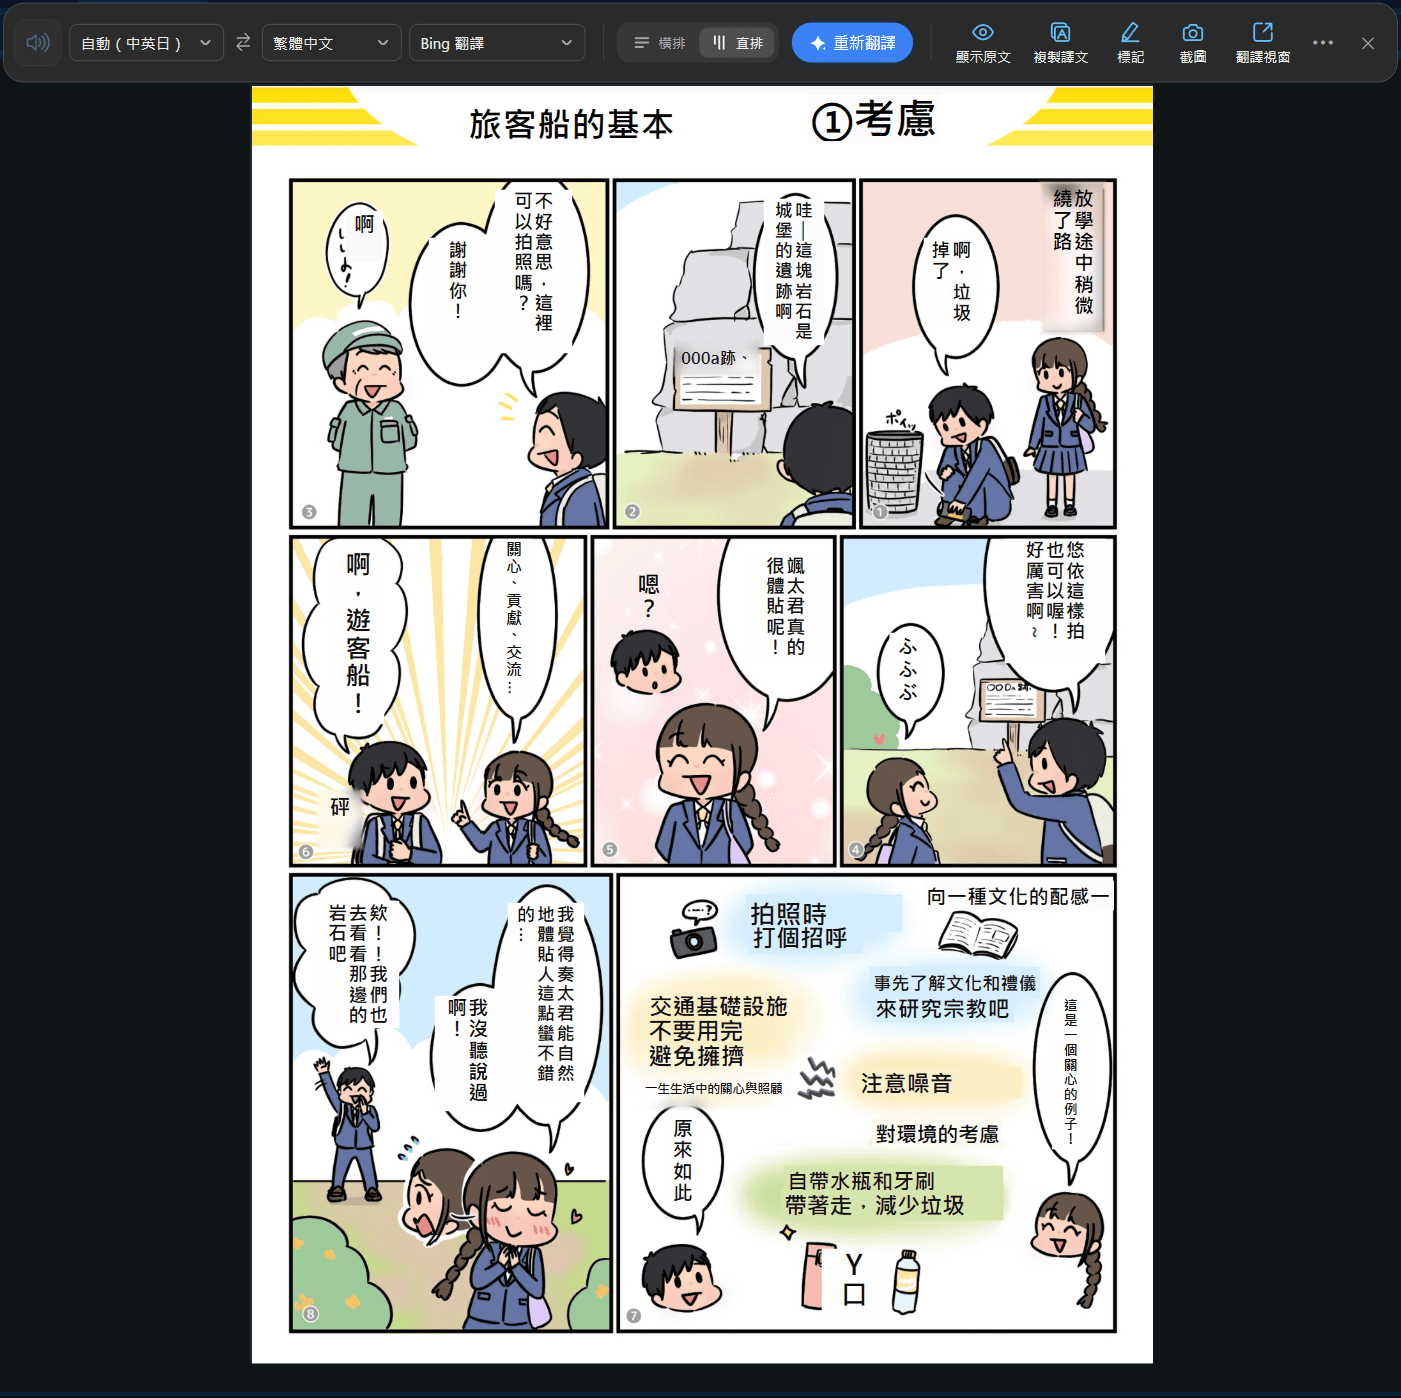
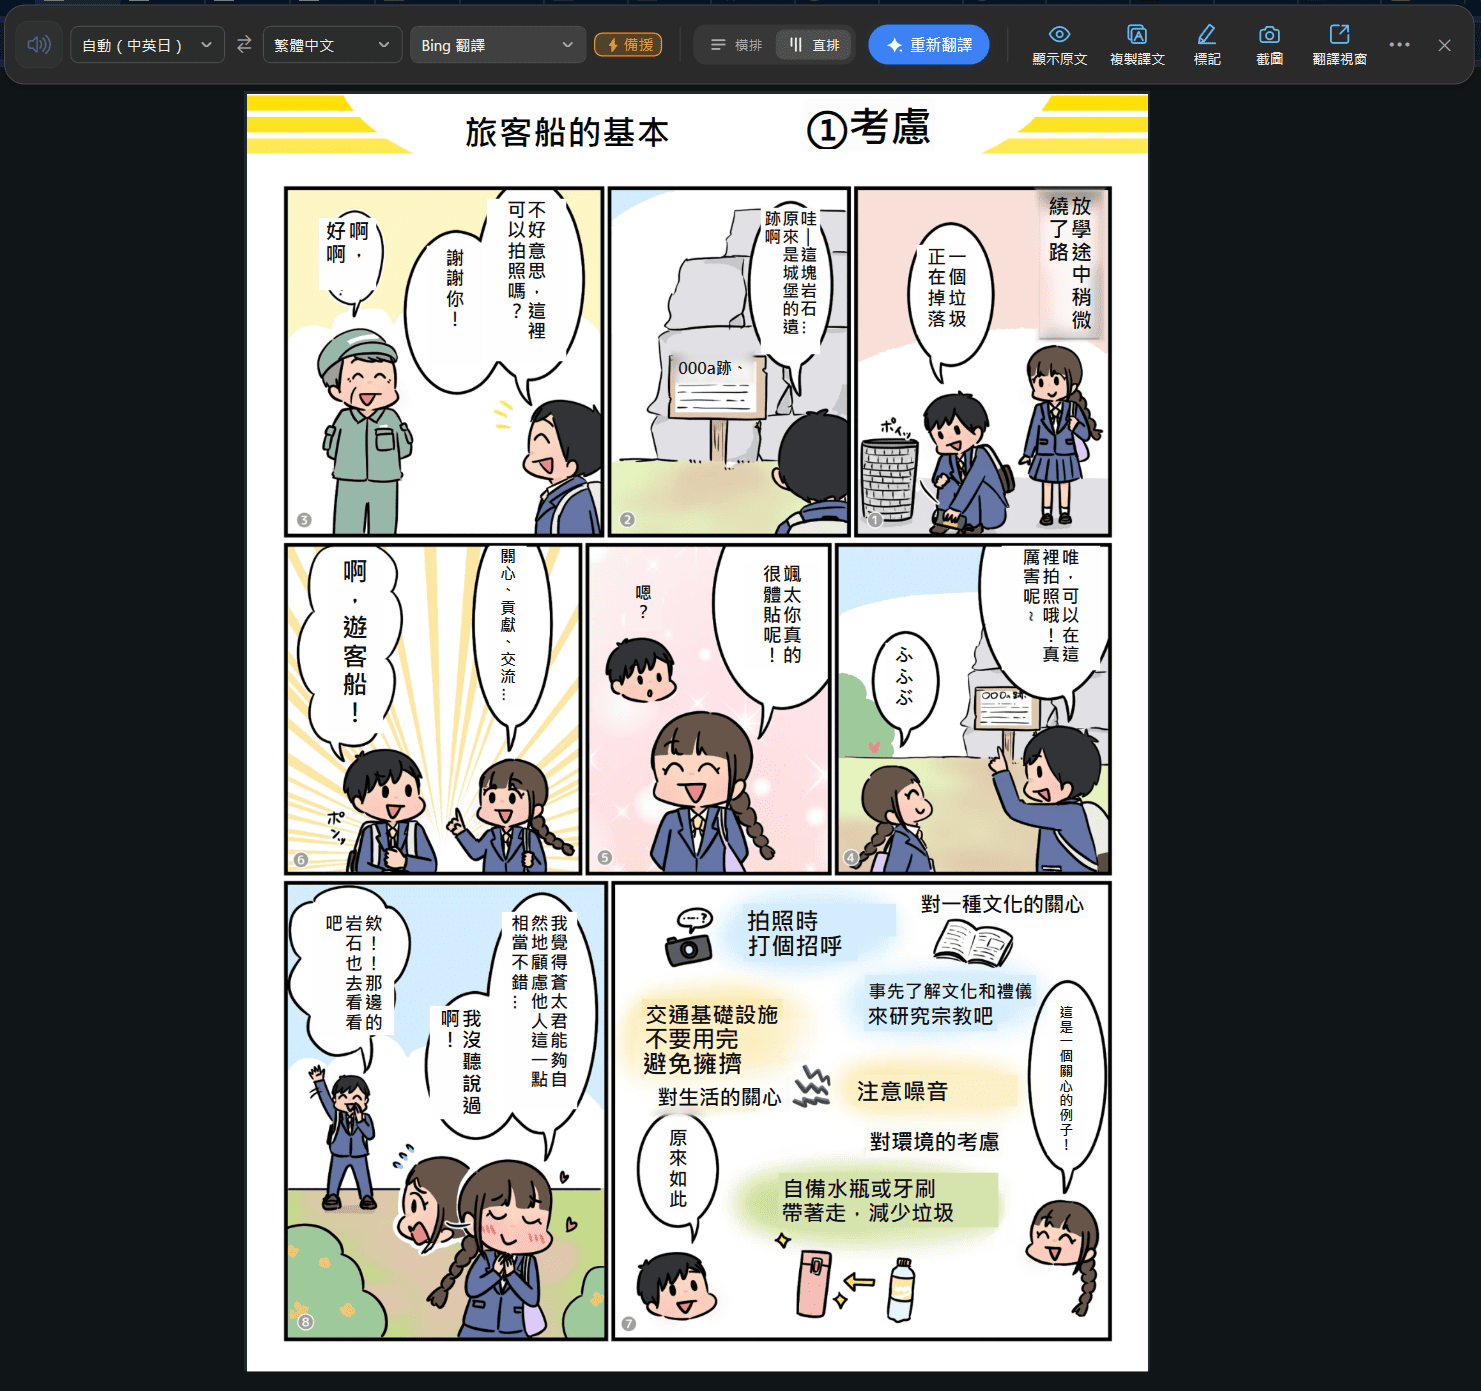
chore: 重新截取截圖翻譯的漫畫比對圖

diff --git a/docs/en/index.html b/docs/en/index.html
@@ -219,9 +219,9 @@
       <div class="split__media reveal">
         <figure class="shot">
           <div class="compare compare--comic" data-compare>
-            <img class="compare__img" src="../images/截圖翻譯1-後.png" width="1401" height="1398" alt="A comic page after translation" data-i18n-attr="alt|shot.comicpage.after" loading="lazy" decoding="async" />
+            <img class="compare__img" src="../images/截圖翻譯1-後.png" width="1481" height="1391" alt="A comic page after translation" data-i18n-attr="alt|shot.comicpage.after" loading="lazy" decoding="async" />
             <div class="compare__clip">
-              <img class="compare__img" src="../images/截圖翻譯1-前.png" width="1401" height="1398" alt="The same comic page in Japanese" data-i18n-attr="alt|shot.comicpage.before" loading="lazy" decoding="async" />
+              <img class="compare__img" src="../images/截圖翻譯1-前.png" width="1481" height="1391" alt="The same comic page in Japanese" data-i18n-attr="alt|shot.comicpage.before" loading="lazy" decoding="async" />
             </div>
             <span class="compare__tag compare__tag--before" data-i18n="compare.before">Original</span>
             <span class="compare__tag compare__tag--after" data-i18n="compare.after">Translated</span>

diff --git a/docs/ja/index.html b/docs/ja/index.html
@@ -219,9 +219,9 @@
       <div class="split__media reveal">
         <figure class="shot">
           <div class="compare compare--comic" data-compare>
-            <img class="compare__img" src="../images/截圖翻譯1-後.png" width="1401" height="1398" alt="マンガを翻訳した画面" data-i18n-attr="alt|shot.comicpage.after" loading="lazy" decoding="async" />
+            <img class="compare__img" src="../images/截圖翻譯1-後.png" width="1481" height="1391" alt="マンガを翻訳した画面" data-i18n-attr="alt|shot.comicpage.after" loading="lazy" decoding="async" />
             <div class="compare__clip">
-              <img class="compare__img" src="../images/截圖翻譯1-前.png" width="1401" height="1398" alt="翻訳前の日本語のマンガ" data-i18n-attr="alt|shot.comicpage.before" loading="lazy" decoding="async" />
+              <img class="compare__img" src="../images/截圖翻譯1-前.png" width="1481" height="1391" alt="翻訳前の日本語のマンガ" data-i18n-attr="alt|shot.comicpage.before" loading="lazy" decoding="async" />
             </div>
             <span class="compare__tag compare__tag--before" data-i18n="compare.before">原文</span>
             <span class="compare__tag compare__tag--after" data-i18n="compare.after">訳文</span>

diff --git a/docs/ko/index.html b/docs/ko/index.html
@@ -219,9 +219,9 @@
       <div class="split__media reveal">
         <figure class="shot">
           <div class="compare compare--comic" data-compare>
-            <img class="compare__img" src="../images/截圖翻譯1-後.png" width="1401" height="1398" alt="만화를 번역한 화면" data-i18n-attr="alt|shot.comicpage.after" loading="lazy" decoding="async" />
+            <img class="compare__img" src="../images/截圖翻譯1-後.png" width="1481" height="1391" alt="만화를 번역한 화면" data-i18n-attr="alt|shot.comicpage.after" loading="lazy" decoding="async" />
             <div class="compare__clip">
-              <img class="compare__img" src="../images/截圖翻譯1-前.png" width="1401" height="1398" alt="번역 전 일본어 만화" data-i18n-attr="alt|shot.comicpage.before" loading="lazy" decoding="async" />
+              <img class="compare__img" src="../images/截圖翻譯1-前.png" width="1481" height="1391" alt="번역 전 일본어 만화" data-i18n-attr="alt|shot.comicpage.before" loading="lazy" decoding="async" />
             </div>
             <span class="compare__tag compare__tag--before" data-i18n="compare.before">원문</span>
             <span class="compare__tag compare__tag--after" data-i18n="compare.after">번역문</span>

diff --git a/docs/zh-Hans/index.html b/docs/zh-Hans/index.html
@@ -219,9 +219,9 @@
       <div class="split__media reveal">
         <figure class="shot">
           <div class="compare compare--comic" data-compare>
-            <img class="compare__img" src="../images/截圖翻譯1-後.png" width="1401" height="1398" alt="漫画翻译后的画面" data-i18n-attr="alt|shot.comicpage.after" loading="lazy" decoding="async" />
+            <img class="compare__img" src="../images/截圖翻譯1-後.png" width="1481" height="1391" alt="漫画翻译后的画面" data-i18n-attr="alt|shot.comicpage.after" loading="lazy" decoding="async" />
             <div class="compare__clip">
-              <img class="compare__img" src="../images/截圖翻譯1-前.png" width="1401" height="1398" alt="翻译前的日文漫画" data-i18n-attr="alt|shot.comicpage.before" loading="lazy" decoding="async" />
+              <img class="compare__img" src="../images/截圖翻譯1-前.png" width="1481" height="1391" alt="翻译前的日文漫画" data-i18n-attr="alt|shot.comicpage.before" loading="lazy" decoding="async" />
             </div>
             <span class="compare__tag compare__tag--before" data-i18n="compare.before">原文</span>
             <span class="compare__tag compare__tag--after" data-i18n="compare.after">译文</span>

diff --git a/docs/zh-TW/index.html b/docs/zh-TW/index.html
@@ -219,9 +219,9 @@
       <div class="split__media reveal">
         <figure class="shot">
           <div class="compare compare--comic" data-compare>
-            <img class="compare__img" src="../images/截圖翻譯1-後.png" width="1401" height="1398" alt="漫畫翻譯後的畫面" data-i18n-attr="alt|shot.comicpage.after" loading="lazy" decoding="async" />
+            <img class="compare__img" src="../images/截圖翻譯1-後.png" width="1481" height="1391" alt="漫畫翻譯後的畫面" data-i18n-attr="alt|shot.comicpage.after" loading="lazy" decoding="async" />
             <div class="compare__clip">
-              <img class="compare__img" src="../images/截圖翻譯1-前.png" width="1401" height="1398" alt="翻譯前的日文漫畫" data-i18n-attr="alt|shot.comicpage.before" loading="lazy" decoding="async" />
+              <img class="compare__img" src="../images/截圖翻譯1-前.png" width="1481" height="1391" alt="翻譯前的日文漫畫" data-i18n-attr="alt|shot.comicpage.before" loading="lazy" decoding="async" />
             </div>
             <span class="compare__tag compare__tag--before" data-i18n="compare.before">原文</span>
             <span class="compare__tag compare__tag--after" data-i18n="compare.after">譯文</span>

diff --git a/docs/index.html b/docs/index.html
@@ -219,9 +219,9 @@
       <div class="split__media reveal">
         <figure class="shot">
           <div class="compare compare--comic" data-compare>
-            <img class="compare__img" src="images/截圖翻譯1-後.png" width="1401" height="1398" alt="漫畫翻譯後的畫面" data-i18n-attr="alt|shot.comicpage.after" loading="lazy" decoding="async" />
+            <img class="compare__img" src="images/截圖翻譯1-後.png" width="1481" height="1391" alt="漫畫翻譯後的畫面" data-i18n-attr="alt|shot.comicpage.after" loading="lazy" decoding="async" />
             <div class="compare__clip">
-              <img class="compare__img" src="images/截圖翻譯1-前.png" width="1401" height="1398" alt="翻譯前的日文漫畫" data-i18n-attr="alt|shot.comicpage.before" loading="lazy" decoding="async" />
+              <img class="compare__img" src="images/截圖翻譯1-前.png" width="1481" height="1391" alt="翻譯前的日文漫畫" data-i18n-attr="alt|shot.comicpage.before" loading="lazy" decoding="async" />
             </div>
             <span class="compare__tag compare__tag--before" data-i18n="compare.before">原文</span>
             <span class="compare__tag compare__tag--after" data-i18n="compare.after">譯文</span>
